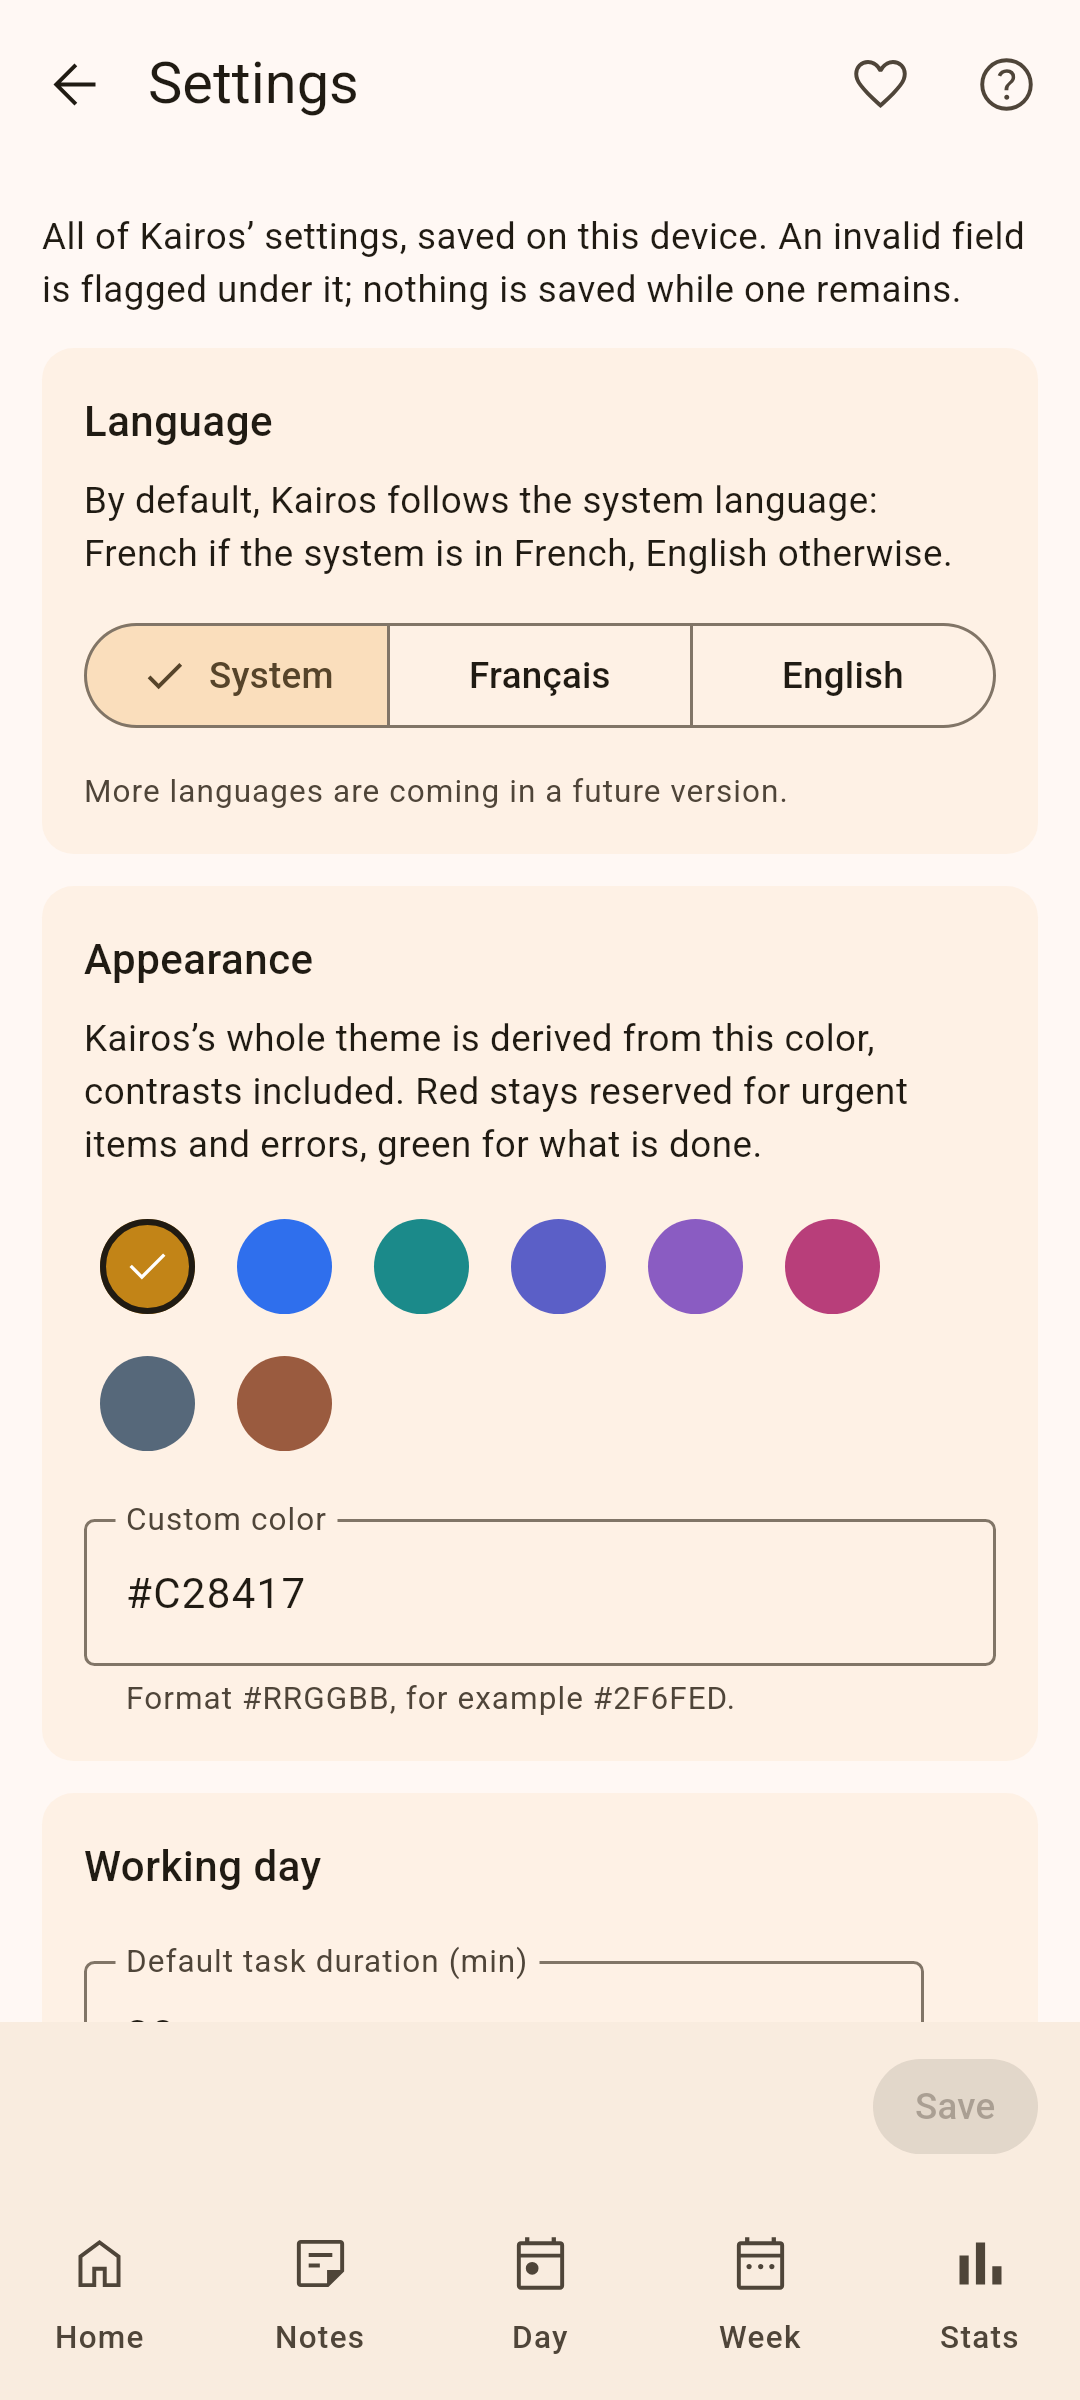
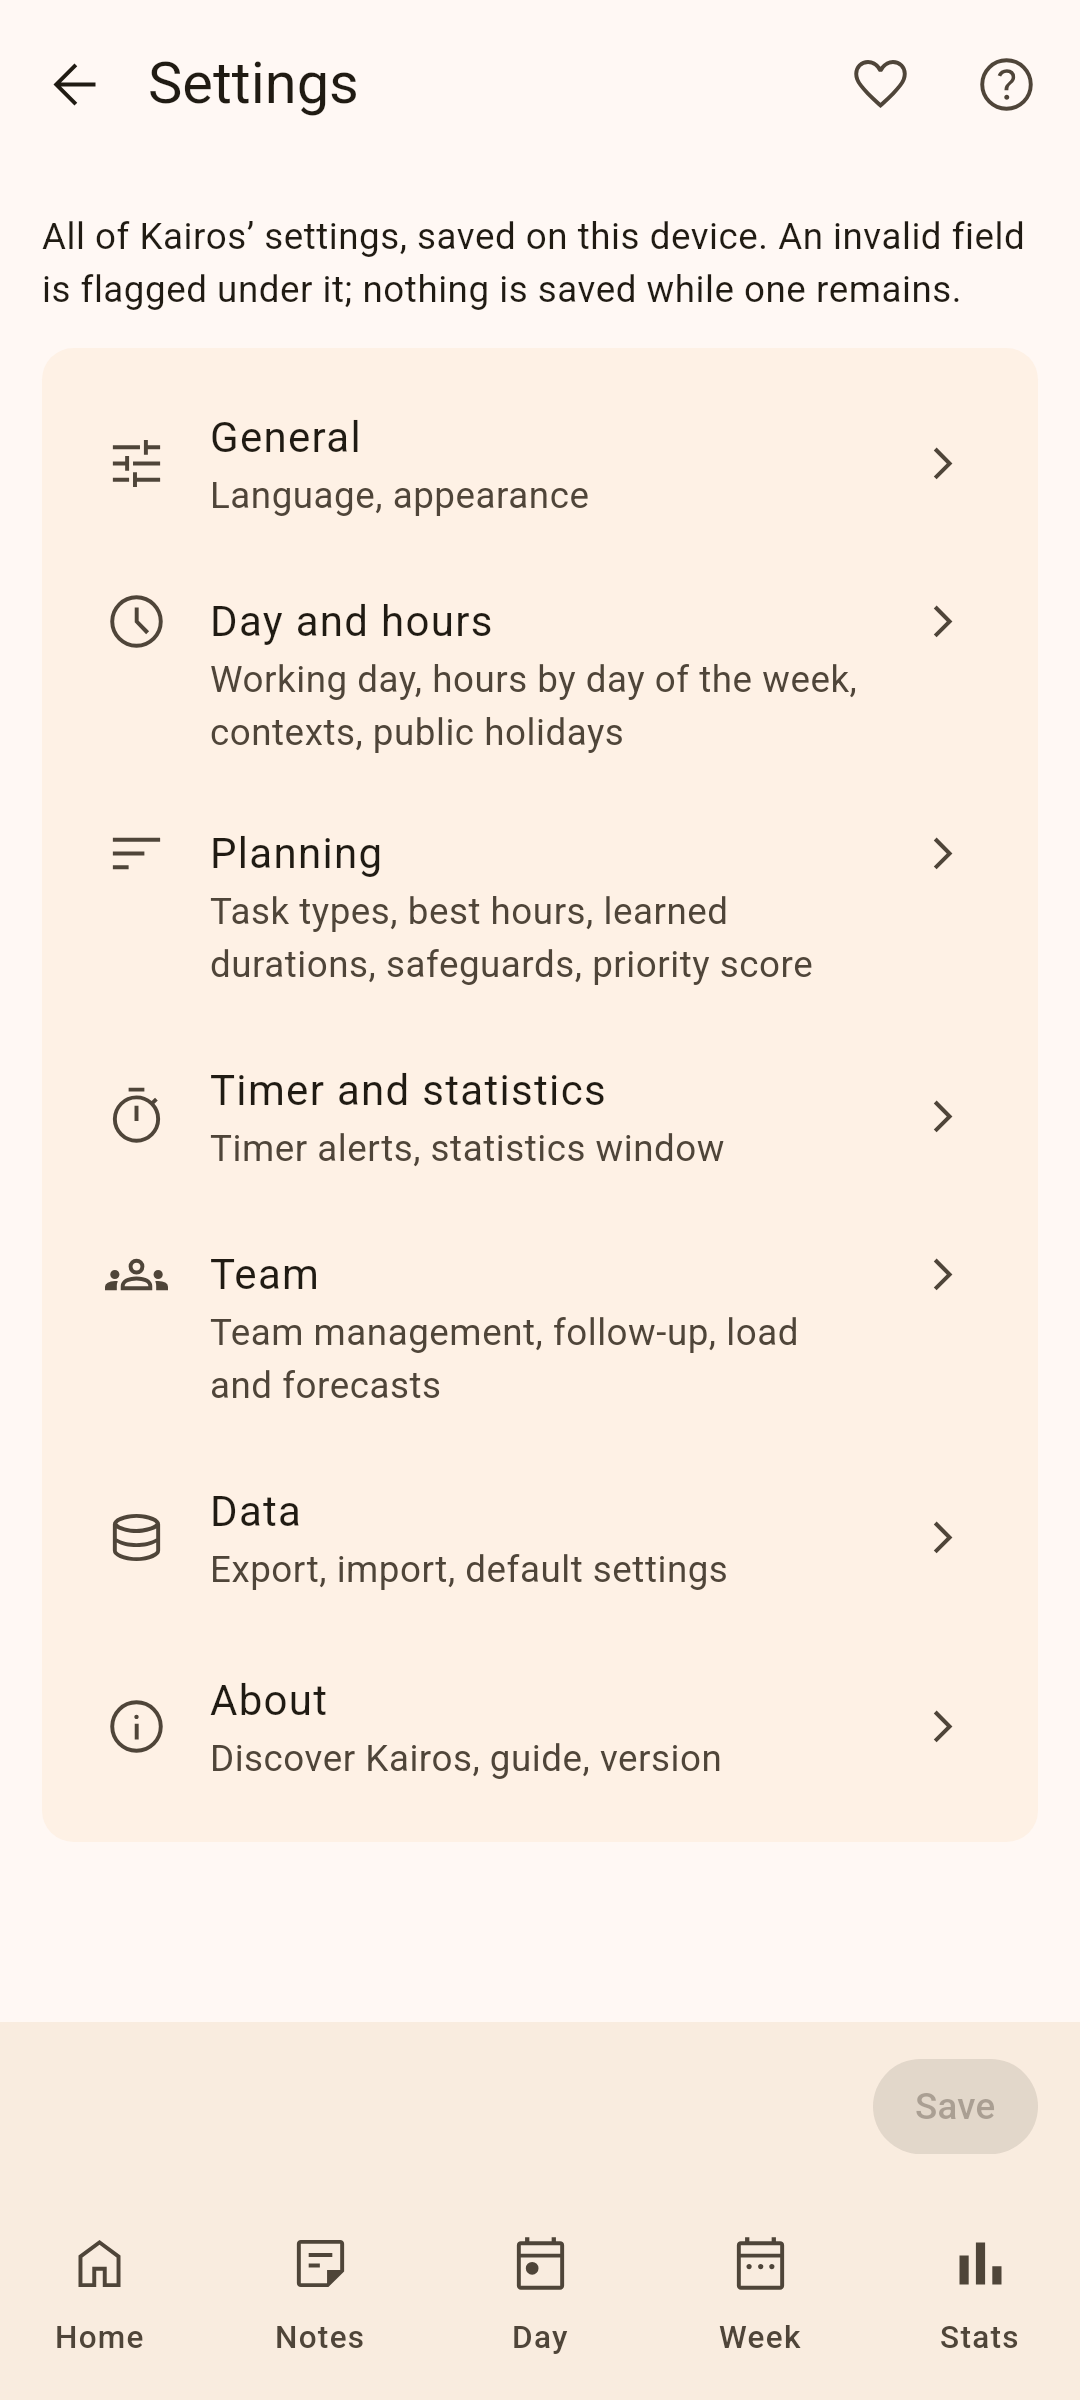
Captures : Réglages par catégories (magasins, auto-test)
Capture 5 des magasins (FR, EN) régénérée : la liste des catégories.
Auto-test : une capture par catégorie au lieu de la page entière.

Claude-Session: https://claude.ai/code/session_01CkdUu2RvqEWTbnALSVy1vY

diff --git a/kmp/desktopApp/src/jvmMain/kotlin/com/skohscripts/kairos/desktop/SelfTest.kt b/kmp/desktopApp/src/jvmMain/kotlin/com/skohscripts/kairos/desktop/SelfTest.kt
@@ -289,8 +289,8 @@ object SelfTest {
             Shot("settings-narrow", 360, 1000, settings),
             Shot("settings-tracking-narrow", 360, 1200, settingsIn(services, SettingsCategory.TRACKING)),
             Shot("settings-advanced", 900, 2600, settingsIn(services, SettingsCategory.PLANNING)),
-            Shot("settings-planning", 900, 4200, plannedSettings),
-            Shot("settings-planning-narrow", 360, 7000, plannedSettings),
+            Shot("settings-planning", 900, 5000, plannedSettings),
+            Shot("settings-planning-narrow", 360, 8500, plannedSettings),
             Shot("settings-besthours", 900, 2600, settingsIn(planned, SettingsCategory.PLANNING)),
             Shot("day-windows", 1200, 1400, plannedDay),
             Shot("about", 900, 1000, about),
